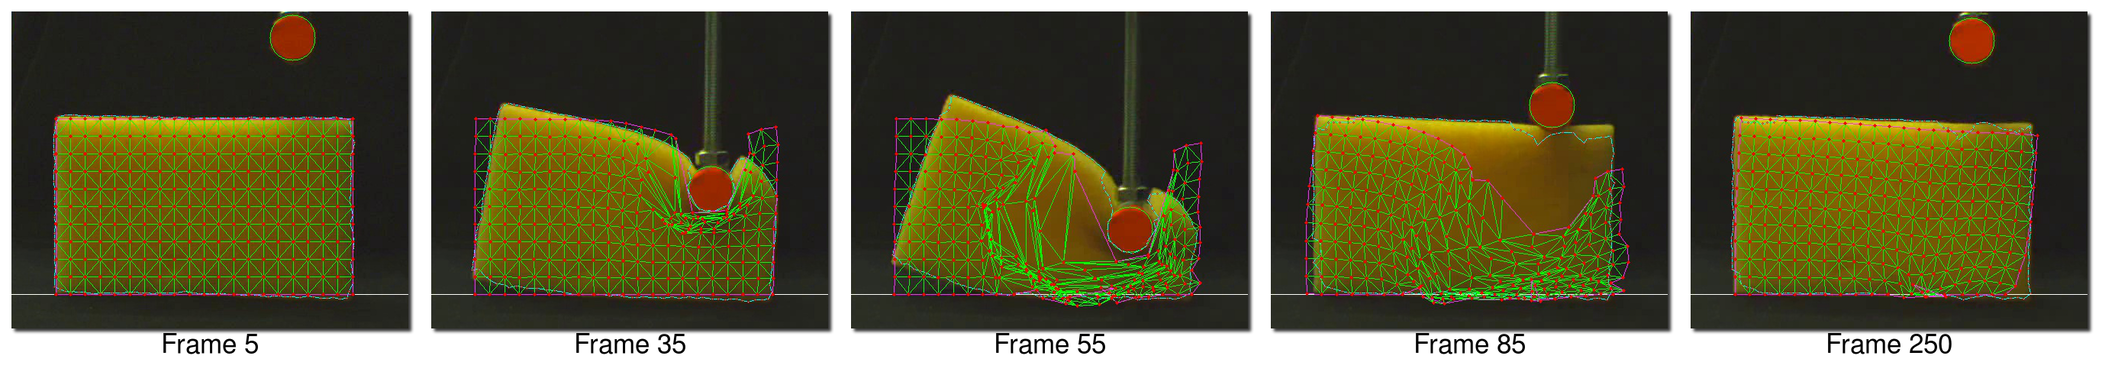
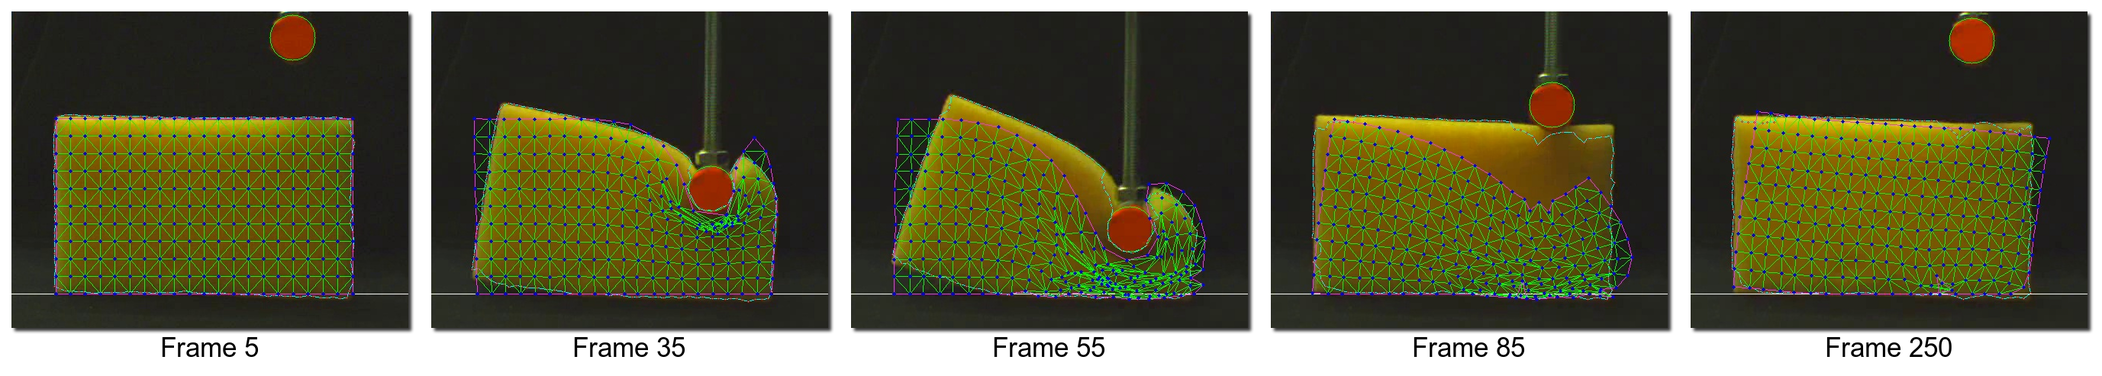
Changed illustrations for simulation of sponge.

diff --git a/twostagedo.tex b/twostagedo.tex
@@ -684,7 +684,8 @@ As has been mentioned above there are several choices made in our modelling appr
 
 In each case the models can be run in two modes, prediction and classification. In prediction mode the models make predictions based on a sequence of robot finger positions. To create the prediction for time $t+1$ the previous predicted state at time $t$ is required: thus the predictions are recursive. This enables predictions over arbitrarily long time periods, but makes learning a good predictor challenging. In filtering mode the predictions of different models are compared to the actual outcomes, and this is used to classify the object as being one of the modular models in the set of models. Since the model is multi-modal we can compare both force and deformation data to the corresponding model predictions. 
 
-The training of the model is performed offline using ground truthed data. The overall algorithm is given in \alref{alg:overall}. For clarity the algorithm is given in three phases: training, simulation (i.e. the prediction phase), and classification (i.e. matching prediction to new data). In testing the model new data is used, where this is typically new deformation actions on an object of known material and approximate shape. Having given an overview of the model we now relate our approach to those in the literature, before proceeding to describe the details of the spring-mass model of deformation (Section~\ref{sec:model}), and then the regression model of contact forces (Section~\ref{sec:forces}).
+The training of the model is performed offline using ground truthed data. %The overall algorithm is given in \alref{alg:overall}.
+For clarity the algorithm is given in three phases: training, simulation (i.e. the prediction phase), and classification (i.e. matching prediction to new data). In testing the model new data is used, where this is typically new deformation actions on an object of known material and approximate shape. Having given an overview of the model we now relate our approach to those in the literature, before proceeding to describe the details of the spring-mass model of deformation (Section~\ref{sec:model}), and then the regression model of contact forces (Section~\ref{sec:forces}).
 
 \section{Background}
 \label{sec:background}
@@ -777,26 +778,31 @@ Additionally, there is a vast amount of literature on modelling of deformable sh
 
 The mass-spring model proposed by Teschner et al.\ in \cite{Teschner2004} was reduced to a 2D model, so that the predictions could be compared with 2D images of the deformable object.  The main idea being that an agent can make rough real time predictions of what it can see and touch and use those predictions to solve various tasks, like classification or grasping.  Here, the surface of the deformable object is approximated by a regular triangular mesh of unitary masses and springs.  The potential energy terms for the preservation of length with damping and preservation of area were included in our system.  To compensate for the lack of a preservation of volume, which tends to avoid distortions of the graph, a new term for the preservation of the angles was included.  The relevant equations are presented in the following paragraphs, while detailed derivations can be found in \cite{Arriola2013thesis}.
 
-For any preservation term, the potential energy $E$ is proportionally dependent on a preservation constraint $C$, where $k$ is the proportionality constant \eref{eq:EConstraint}.  The force $\vec{F}^i$ acting on the $i^{th}$ mass particle is defined as the negative gradient of this potential energy with respect to the position of the particle $\vec{p}_i$ \eref{eq:EForce}.
+For every desired constraint $C(\vec{p}_1,...,\vec{p}_{n})$ acting over $n$ vertices, a potential energy $E$ is defined.  When the value of the constraint is zero, the potential energy is zero as well.  When the constraint is not satisfied, the potential energy increases.  This behaviour is obtained through the following definition for the energy:
 \begin{align}
- E(\vec{p}_1,...,\vec{p}_{n}) & = \frac{1}{2}kC(\vec{p}_1,...,\vec{p}_{n})^2, \label{eq:EConstraint} \\
+ E(\vec{p}_1,...,\vec{p}_{n}) & = \frac{1}{2}kC(\vec{p}_1,...,\vec{p}_{n})^2, \label{eq:EConstraint}
+\end{align}
+where $k$ is a proportionality constant \eref{eq:EConstraint} and $p_i$ is the position of particle $i$.
+
+In order to reduce the energy of the system when a constraint is not satisfied, the force $\vec{F}^i$ acting on the $i^{th}$ mass particle is defined as the negative gradient of this potential energy with respect to the position of the particle $\vec{p}_i$ \eref{eq:EForce}.
+\begin{align}
  \vec{F}^i(\vec{p}_1,...,\vec{p}_{n}) & = -\frac{\partial}{\partial \vec{p}_i}E = -kC\frac{\partial C}{\partial \vec{p}_i}. \label{eq:EForce}
 \end{align}
-Which with damping becomes:
+Given the oscilatory nature of these equations, damping can be introduced to stop the oscillations.  This is modelled with a force acting in the opposite direction to the velocity of the affected particles:
 \begin{align}
  \label{eq:Fdamping}
  \vec{F}^i&(\vec{p}_1,...,\vec{p}_{n},\vec{v}_1,...,\vec{v}_{n}) = \nonumber \\
     &\left( -kC-k_d\sum_{1 \le j \le n} \dfrac{\partial C}{\partial \vec{p}_j}\vec{v}_j \right)
  \dfrac{\partial C}{\partial \vec{p}_i},
 \end{align}
-where $\vec{v}_j$ is the velocity of the $j^{th}$ particle connected to $i$, in a system with $n$ particles.
+where $\vec{v}_j = \frac{\partial \vec{p}_j}{\partial t}$ is the velocity of the $j^{th}$ particle connected to $i$, when the constraint acts on $n$ particles.
 
 \subsubsection{Preservation of Length}
 The constraint for the potential energy is given by:
 \begin{equation}
  C = \dfrac{|\vec{p}_j-\vec{p}_i|-D_0}{D_0}, \label{eq:clength}
 \end{equation}
-where $\vec{p}_i$ and $\vec{p}_j$ are connected by a spring and $D_0$ is the rest length of that spring.  The force derived from this constraint pulls the masses in the direction of the spring that joins them [\fref{fig:forces}(a)].  Teschner normalised the value dividing by $D_0$ to make the elasticity constants scale independent.  Morris \cite{Morris2008} omitted that in his final equations for the force.  Here we use the normalised force $\vec{F}^i_D$ \eref{eq:FDlength}, which has the effect that, if we obtain a good set of parameters for a certain mesh of high resolution, the same set can be used for a mesh of lesser resolution that preserves the same type of symmetries.  Therefore, substituting \eref{eq:clength} in \eref{eq:Fdamping} we get:
+where $\vec{p}_i$ and $\vec{p}_j$ are connected by a spring and $D_0$ is the rest length of that spring.  The force derived from this constraint pulls the masses in the direction of the spring that joins them [\fref{fig:forces}(a)].  Teschner normalised the value dividing by $D_0$ to make the elasticity constants scale independent.  Morris \cite{Morris2008} omitted that in his final equations for the force.  Here we use the normalised force $\vec{F}^i_D$ \eref{eq:FDlength}, which has the effect that, if we obtain a good set of parameters for a certain mesh of high resolution, the same set can be used for a mesh of lesser resolution that preserves the same type of symmetries.  Therefore, substituting \eref{eq:clength} in \eref{eq:Fdamping}, after some manipulation we get:
 \begin{align}
  \vec{F}^i_D(p_i,p_j,v_i,v_j) &= \dfrac{k_L}{D_0^2} \left( |\vec{p}_j-\vec{p}_i|-D_0 \right) \dfrac{\vec{p}_j-\vec{p}_i}{|\vec{p}_j-\vec{p}_i|}  + \nonumber \\
  & \dfrac{k_d}{D_0^2}\left( \dfrac{\vec{p}_j-\vec{p}_i}{|\vec{p}_j-\vec{p}_i|} \cdot (\vec{v}_j-\vec{v}_i) \right) \dfrac{\vec{p}_j-\vec{p}_i}{|\vec{p}_j-\vec{p}_i|} \label{eq:FDlength}
@@ -1129,14 +1135,14 @@ One hundred photographs and force readings where taken every $0.17\pm0.007 s$ in
 \includegraphics[width=178mm]{arrio9}
 \includegraphics[width=178mm]{arrio10}
 \includegraphics[width=178mm]{arrio11}
-\caption{Simulation of the sponge obtained with parameters $k_L=1898.22, k_d=1.24705, k_A=18629.2 k_{\phi}=764.649, max\_Force=183.71, yield=0.558793, creep=0.433517, max\_\alpha=0.73364$.  Using the customised integration scheme, the elastic-plastic model with all preservation terms, with the aid of geometric recovery routines and collision detection with the finger.  The block of material was represented by a mesh of $20 \times 10$ elements. Top: Training. Middle: Test 1. Bottom: Test 2}\label{fig:simulation_sponge}
+\caption{Simulation of the sponge obtained with parameters $k_L=3034.48, k_d=0.000237, k_A=103.568 k_{\phi}=66.774, max\_Force=1218.81, yield=0.000434973, creep=0.00890343, max\_\alpha=0.45204$.  Using the customised integration scheme, the elastic-plastic model with all preservation terms, with the aid of geometric recovery routines and collision detection with the finger.  The block of material was represented by a mesh of $20 \times 10$ elements. Top: Training. Middle: Test 1. Bottom: Test 2}\label{fig:simulation_sponge}
 \end{figure*}
 
 \begin{figure*}[!t]
 \centering
 \includegraphics[width=178mm]{arrio12}
 \includegraphics[width=178mm]{arrio13}
-\includegraphics[width=178mm]{arrio14}
+%\includegraphics[width=178mm]{arrio14}
 \caption{Simulation of the plasticine obtained with parameters $k_L=642.328, k_d=0.562201, k_A=29.2776 k_{\phi}=72.6202, max\_Force=765.912, yield=0.0790105, creep=0.664469, max\_\alpha=0.48842$.  Using the customised integration scheme, the elastic-plastic model with all preservation terms, with the aid of geometric recovery routines and collision detection with the finger.  The block of material was represented by a mesh of $20 \times 10$ elements. Top: Training. Middle: Test 1. Bottom: Test 2}\label{fig:simulation_plasticine}
 \end{figure*}
 
